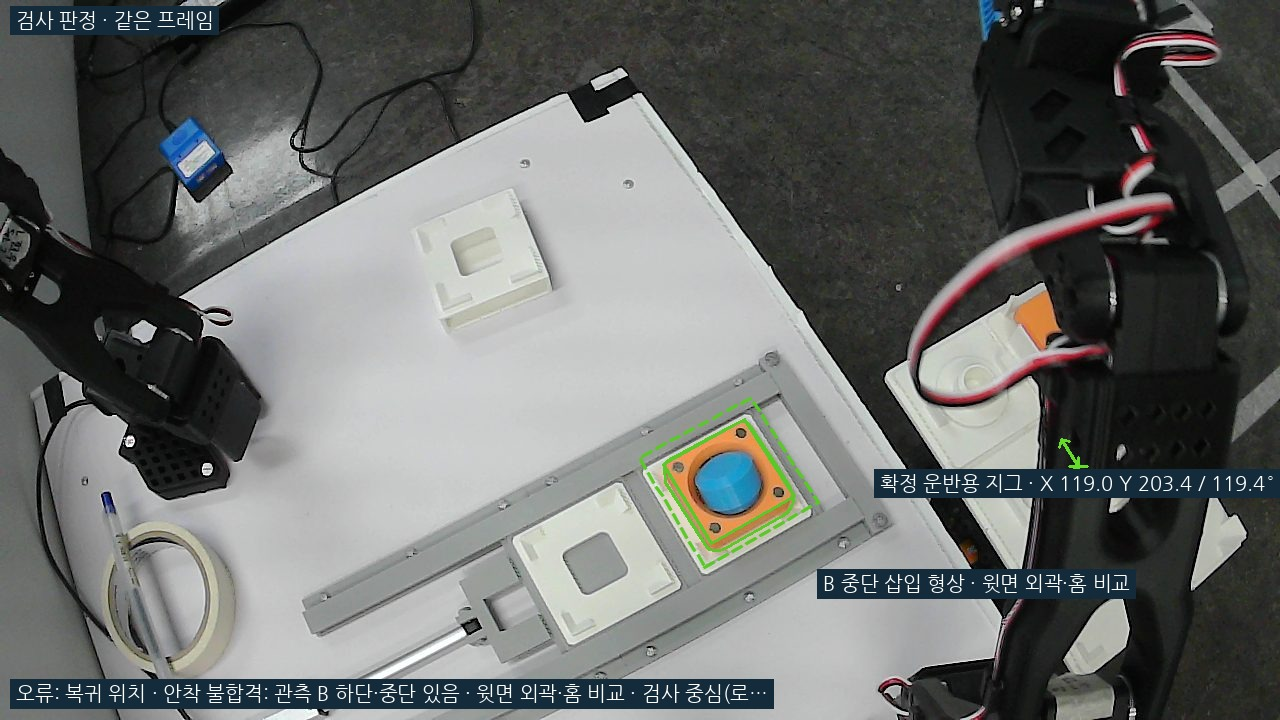
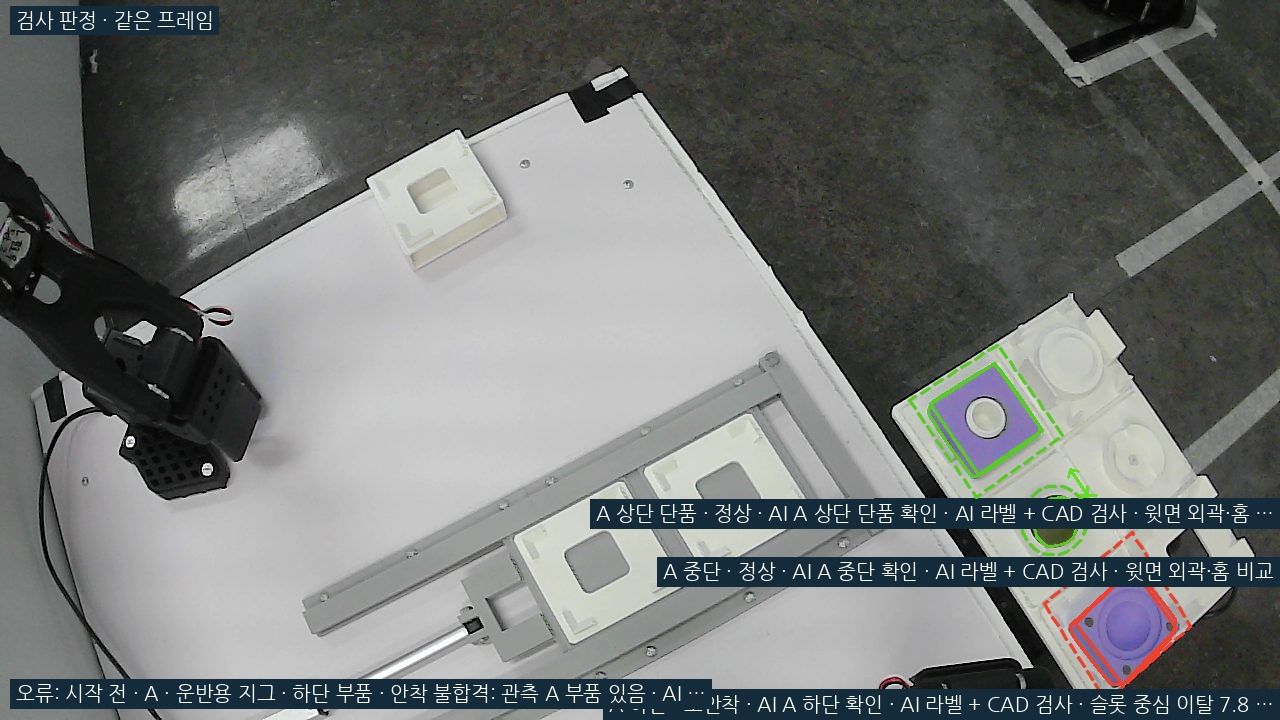
Show actual misseating log screen linked to matching decision image

diff --git a/docs/index.html b/docs/index.html
@@ -4,7 +4,7 @@
 <meta content="noindex" name="robots"/><title>정승호 포트폴리오</title>
 <link href="https://fonts.googleapis.com" rel="preconnect"/><link crossorigin="" href="https://fonts.gstatic.com" rel="preconnect"/>
 <link href="https://fonts.googleapis.com/css2?family=Noto+Sans+KR:wght@400;500;600;700;800;900&amp;display=swap" rel="stylesheet"/>
-<link href="app.css?v=20261021worklogs" rel="stylesheet"/></head>
+<link href="app.css?v=20261021reallogscreen" rel="stylesheet"/></head>
 <body>
 <a class="skip" href="#about">본문으로 이동</a>
 <header class="top" id="top">
@@ -247,11 +247,12 @@
 </div></div></section>
 
 <section class="ds study-logs" id="opencv-13">
-<div class="ds-head"><p class="ds-no">13<span>작업 로그·오류 추적</span></p><h3>실행 이력과 판정 영상을 함께 남겨 실패 원인 확인</h3></div>
+<div class="ds-head"><p class="ds-no">13<span>작업 로그·오류 추적</span></p><h3>오안착 원인을 실제 로그와 판정 영상으로 확인</h3></div>
 <div class="ds-body"><div class="log-evidence">
-<div><table class="study-table"><caption>B 조립 실제 실행 기록 · 주요 항목 요약</caption><thead><tr><th scope="col">시각</th><th scope="col">기록</th></tr></thead><tbody><tr><td><time>17:24:41</time></td><td>B 조립 작업 접수</td></tr><tr><td><time>17:24:45</time></td><td>지그 위치·방향 확정</td></tr><tr><td><time>17:24:50</time></td><td>작업 준비 완료</td></tr><tr class="log-failure"><td><time>17:25:43</time></td><td>안착 검사 불합격</td></tr><tr><td><time>17:25:43</time></td><td>판정 이미지·오류 기록 저장</td></tr></tbody></table><p class="log-source">2026.10.14 실행 로그 발췌</p></div>
-<figure><a class="image-open" href="assets/images/robot-execution-failure.jpg" aria-label="실패 시 저장된 검사 판정 영상 크게 보기"><img src="assets/images/robot-execution-failure.jpg" width="1280" height="720" loading="lazy" alt="B 상단 결합 완제품을 기대했으나 하단·중단 상태로 판정한 실제 실패 검사 영상"></a><figcaption>실패 시 저장된 실제 검사 판정 영상</figcaption><p class="log-reason"><b>기대</b> B 완제품 <span>→</span> <b>관측</b> B 하단·중단만 있음</p></figure>
-</div><p class="log-summary">실패 단계·검사 결과·판정 영상·실행 설정·코드 버전을 함께 기록</p></div></section>
+<figure><h4>01 · 실패 사유와 저장 경로</h4><a class="image-open" href="assets/images/robot-execution-log-screen.png" aria-label="실제 오류·실행 로그 화면 크게 보기"><img class="actual-log-screen" src="assets/images/robot-execution-log-screen.png" width="650" height="540" loading="lazy" alt="실제 앱의 오류·실행 로그 화면. A 하단 부품 슬롯 중심 이탈 7.8mm, 허용 5mm로 검사 실패 후 FAILURE_IMAGES 저장 경로와 에피소드 중단을 기록"></a><figcaption>실제 실행 로그에서 발췌</figcaption></figure>
+<div class="log-link" aria-hidden="true"><span>→</span><b>같은 실행</b></div>
+<figure><h4>02 · 저장된 판정 영상</h4><a class="image-open" href="assets/images/robot-execution-failure.jpg?v=20261021misseated" aria-label="같은 실행에서 저장된 오안착 판정 영상 크게 보기"><img src="assets/images/robot-execution-failure.jpg?v=20261021misseated" width="1280" height="720" loading="lazy" alt="A 하단 부품의 중심 이탈을 붉은 외곽으로 표시한 동일 실행의 실제 판정 영상"></a><figcaption>붉은 영역 · A 하단 부품 오안착</figcaption><p class="log-reason"><b>중심 이탈 7.8mm &gt; 허용 5mm</b><br>부품은 있으나 제자리를 벗어나 검사 실패</p></figure>
+</div><p class="log-summary">실패 사유 확인 → <code>FAILURE_IMAGES</code> 경로 → 같은 실행의 판정 영상 조회</p></div></section>
 
 <nav aria-label="다른 프로젝트" class="pager"><a href="#travel"><small>06</small><b>Travel Visualizer</b></a><a class="next" href="#robot"><small>02</small><b>원격 물품 <x-nw>회수·운반</x-nw> 로봇</b></a></nav>
 </article><article aria-labelledby="dv-robot" class="dv" data-id="robot" hidden="">

diff --git a/docs/app.css b/docs/app.css
@@ -1756,15 +1756,21 @@ x-nw { white-space: nowrap; }
 @media (min-width: 681px) { .robot-study .study-transform svg { max-height: 222px; } }
 @media (min-width: 681px) and (max-height: 820px) { .robot-study .study-transform svg { max-height: 190px; } }
 
-/* Actual execution history and its failure evidence. */
-.log-evidence { display: grid; grid-template-columns: minmax(0,1fr) minmax(0,1.25fr); gap: 28px; align-items: start; }
-.robot-study .log-evidence .study-table { font-size: 17px; }
-.log-evidence time { white-space: nowrap; font-variant-numeric: tabular-nums; }
-.log-evidence .log-failure td { background: #fff0e9; color: #873d25; font-weight: 600; }
-.robot-study .log-source { font-size: 15px; color: var(--muted); margin-top: 10px; }
-.robot-study .log-evidence img { width: 100%; height: auto; max-height: none; border-radius: 6px; }
+/* Actual application log capture linked to the same run's decision frame. */
+.log-evidence { display: grid; grid-template-columns: minmax(0,1.1fr) 62px minmax(0,1fr); gap: 18px; align-items: start; }
+.robot-study .log-evidence h4 { font-size: 18px; margin: 0 0 12px; }
+.robot-study .ds-body .log-evidence figure { width: 100% !important; margin: 0; }
+.robot-study .ds-body .log-evidence figure img { display: block; width: 100%; height: auto; max-height: none; border: 1px solid var(--box-line); border-radius: 6px; }
 .robot-study .log-evidence figcaption { font-size: 16px; margin-top: 8px; }
-.robot-study .log-reason { font-size: 17px; line-height: 1.6; margin-top: 12px; }
-.log-reason span { padding: 0 8px; color: var(--muted); }
-.robot-study .log-summary { margin-top: 22px; padding: 16px 20px; border-left: 4px solid var(--navy); background: var(--box); font-size: 18px; font-weight: 600; }
-@media (max-width: 680px) { .log-evidence { grid-template-columns: 1fr; gap: 22px; } .robot-study .log-evidence .study-table { font-size: 16px; } }
+.log-link { align-self: center; color: var(--navy); text-align: center; }
+.log-link span { display: block; font-size: 34px; }
+.log-link b { display: block; font-size: 14px; white-space: nowrap; }
+.robot-study .log-reason { font-size: 18px; line-height: 1.6; margin-top: 20px; padding: 16px; background: var(--box); border-left: 4px solid var(--navy); }
+.robot-study .log-summary { margin-top: 18px; padding: 14px 18px; border-left: 4px solid var(--navy); background: var(--box); font-size: 17px; font-weight: 600; }
+.log-summary code { font-size: 16px; }
+@media (max-width: 680px) {
+ .log-evidence { grid-template-columns: 1fr; gap: 16px; }
+ .log-link span { font-size: 0; }
+ .log-link span::after { content: "↓"; font-size: 28px; }
+ .log-link { justify-self: center; }
+}
